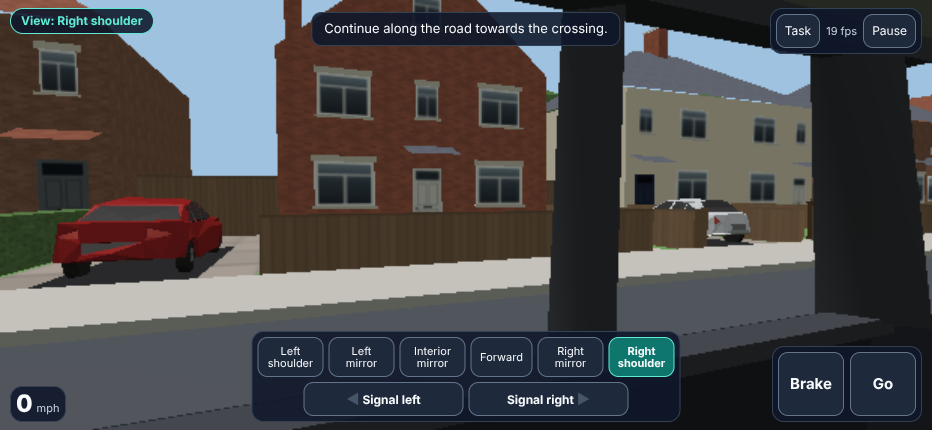
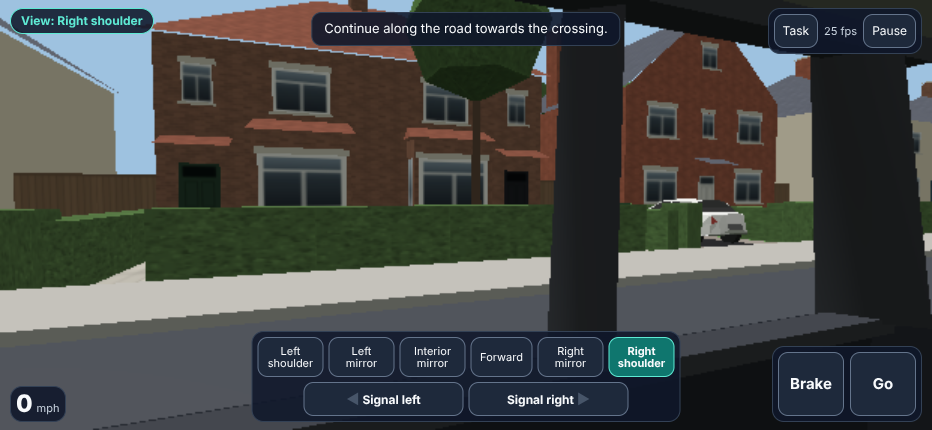
Zebra street: trim houses to what is visible; low-poly beacons and heads
A CI run slowed the zebra drive tests below 1 fps. Houses now run from about
160 m behind the start (haze from 180 m) to about 100 m past the end zone, and
the beacon, pedestrian-head and helmet spheres drop from 4,624 triangles each.
83.6k -> 50.1k triangles, 12.8 -> 16.0 fps (software rendering).

Claude-Session: https://claude.ai/code/session_01QSE7HPWAFN7h7s95husGEt

diff --git a/src/actors/actorVisuals.ts b/src/actors/actorVisuals.ts
@@ -18,7 +18,7 @@ export function pedestrianVisual(scene:Scene,ped:Pedestrian){
   body.position.y=.95;body.material=mat(scene,`${ped.id}-coat`,new Color3(.12,.2,.38));body.parent=root;
   const legs=CreateBox(`${ped.id}-legs`,{width:.3,height:.45,depth:.2},scene);
   legs.position.y=.22;legs.material=mat(scene,`${ped.id}-trousers`,new Color3(.15,.15,.17));legs.parent=root;
-  const head=CreateSphere(`${ped.id}-head`,{diameter:.24},scene);
+  const head=CreateSphere(`${ped.id}-head`,{diameter:.24,segments:8},scene);
   head.position.y=1.62;head.material=mat(scene,`${ped.id}-skin`,new Color3(.78,.6,.48));head.parent=root;
   return {
     update(){
@@ -47,7 +47,7 @@ export function vehicleVisual(scene:Scene,id:string,colour:string,pose:()=>impor
     bike.position.y=.45;bike.material=mat(scene,`${id}-frame`,new Color3(.12,.12,.14));bike.parent=root;
     const rider=CreateCylinder(`${id}-rider`,{height:.9,diameterTop:.36,diameterBottom:.3},scene);
     rider.position.set(0,1.25,.1);rider.material=paint;rider.parent=root;
-    const helmet=CreateSphere(`${id}-helmet`,{diameter:.28},scene);
+    const helmet=CreateSphere(`${id}-helmet`,{diameter:.28,segments:8},scene);
     helmet.position.set(0,1.8,-.05);helmet.material=paint;helmet.parent=root;
     return {update(){root.setEnabled(visible());applyPose(root,pose())},dispose:()=>root.dispose(false,true)};
   }

diff --git a/tests/unit/zebraStreet.test.ts b/tests/unit/zebraStreet.test.ts
@@ -49,13 +49,14 @@ function pedestrianVisible(z:number,x:number,obstacles:Block[]):number{
 
 describe('zebra street: layout',()=>{
   it('is a full street on both sides, continuing behind the learner (mirrors) and beyond the crossing',()=>{
-    expect(layout.houses.length).toBeGreaterThan(40);
+    expect(layout.houses.length).toBeGreaterThan(30);
     expect(new Set(layout.houses.map(h=>h.style)).size).toBeGreaterThanOrEqual(4);
     for(const side of [-1,1]){
       const near=layout.houses.filter(h=>Math.sign(h.frame.ox)===side&&h.frame.oz<20&&h.frame.oz>-130);
       expect(near.length,`side ${side}`).toBeGreaterThanOrEqual(6);
     }
-    expect(Math.max(...layout.houses.map(h=>h.frame.oz))).toBeGreaterThan(200);
+    // Houses run about 160 m behind the start (the haze begins at 180 m) and about 100 m past the end of the exercise.
+    expect(Math.max(...layout.houses.map(h=>h.frame.oz))).toBeGreaterThan(150);
   });
 
   it('keeps houses, gardens and street furniture off the carriageway',()=>{

diff --git a/src/world/buildWorld.ts b/src/world/buildWorld.ts
@@ -237,7 +237,7 @@ export function buildWorld(scene:Scene,location:Location,quality:QualityProfile)
       const pole=CreateCylinder(`${crossing.id}-beacon-pole-${side}`,{height:2.6,diameter:.1},scene);
       pole.material=black;
       place(pole,poleLateral,-crossing.width/2-.3,road.surfaceHeight+road.kerbHeight+1.3);
-      const globe=CreateSphere(`${crossing.id}-beacon-${side}`,{diameter:.32},scene);
+      const globe=CreateSphere(`${crossing.id}-beacon-${side}`,{diameter:.32,segments:8},scene);
       globe.material=amber;
       place(globe,poleLateral,-crossing.width/2-.3,road.surfaceHeight+road.kerbHeight+2.7);
     }

diff --git a/tests/browser/g13-zebra-street.spec.ts b/tests/browser/g13-zebra-street.spec.ts
@@ -22,7 +22,7 @@ test('G13: the zebra street is dressed from every view with cleared assets; the 
   expect(await read(page,'location()')).toBe('representative-residential-straight');
 
   const scenery=await read(page,'scenery()');
-  expect(scenery.houses).toBeGreaterThan(40);
+  expect(scenery.houses).toBeGreaterThan(30);
   expect(scenery.parkedCars).toBeGreaterThanOrEqual(7);
   expect(await read(page,'sceneryModels()')).toEqual([]);
 

diff --git a/docs/verification/STEP11-zebra-and-brentwood-scenery.md b/docs/verification/STEP11-zebra-and-brentwood-scenery.md
@@ -12,7 +12,7 @@ Each exercise was finished and verified separately: the zebra street first (layo
   - terraces, semis and detached houses, front and back gardens, walls, hedges and fences;
   - paths and drives, cars on drives, street lights, gullies, trees and bins.
 - Parked cars use the CC0 LowPoly Cars models, with collision boxes the size of each model.
-- The road now continues 290 m behind the start, so the mirrors and shoulder views show a street rather than the road's end. It also runs further on round the bend, which is smoothed.
+- The road now continues 290 m behind the start, with houses for the first 160 m (into the haze), so the mirrors and shoulder views show a street rather than the road's end. It also runs further on round the bend, which is smoothed.
 - Distances along the road moved by +290 m with it. The crossing, the zones and the pedestrian are at exactly the same places on the ground (unit-tested).
 
 **What did not change (the lesson)**
@@ -75,11 +75,17 @@ Screenshots (`step11/brentwood-*`): forward (signals green), interior mirror, do
 
 ## Performance (software rendering in this container: not an iPhone)
 
+In one CI run the zebra drive tests slowed to under 1 fps and timed out, although the same tests had passed in the run before. The zebra street was therefore trimmed:
+- houses now run from about 160 m behind the start (the haze begins at 180 m) to about 100 m past the end of the exercise;
+- the beacons, the pedestrian's head and the cyclist's helmet were reduced from 4,624-triangle spheres to low-poly ones.
+
+This took the scene from 83,600 to 50,100 triangles and from 12.8 to 16.0 fps in this container.
+
 Forward view with mirrors, stationary, 932 × 430, SwiftShader:
 
 | Scene | Houses/buildings | Triangles | Vertices | Meshes | Colliders | Average fps | p50 / p95 frame |
 |---|---|---|---|---|---|---|---|
-| Zebra street | 74 houses, 20 parked cars | 83,600 | 151,400 | 94 | 1,364 | 12.8 | 73.5 / 134.6 ms |
+| Zebra street | 48 houses, 12 parked cars | 50,100 | | 88 | 869 | 16.0 | about 60 / 100 ms |
 | Brentwood | 32 buildings | 25,100 | 36,100 | 55 | 249 | 22.0 | 43.7 / 78.6 ms |
 | Moving off (step 8, for comparison) | 70+ houses | about 63,000 | | | | 12–14 | |
 
